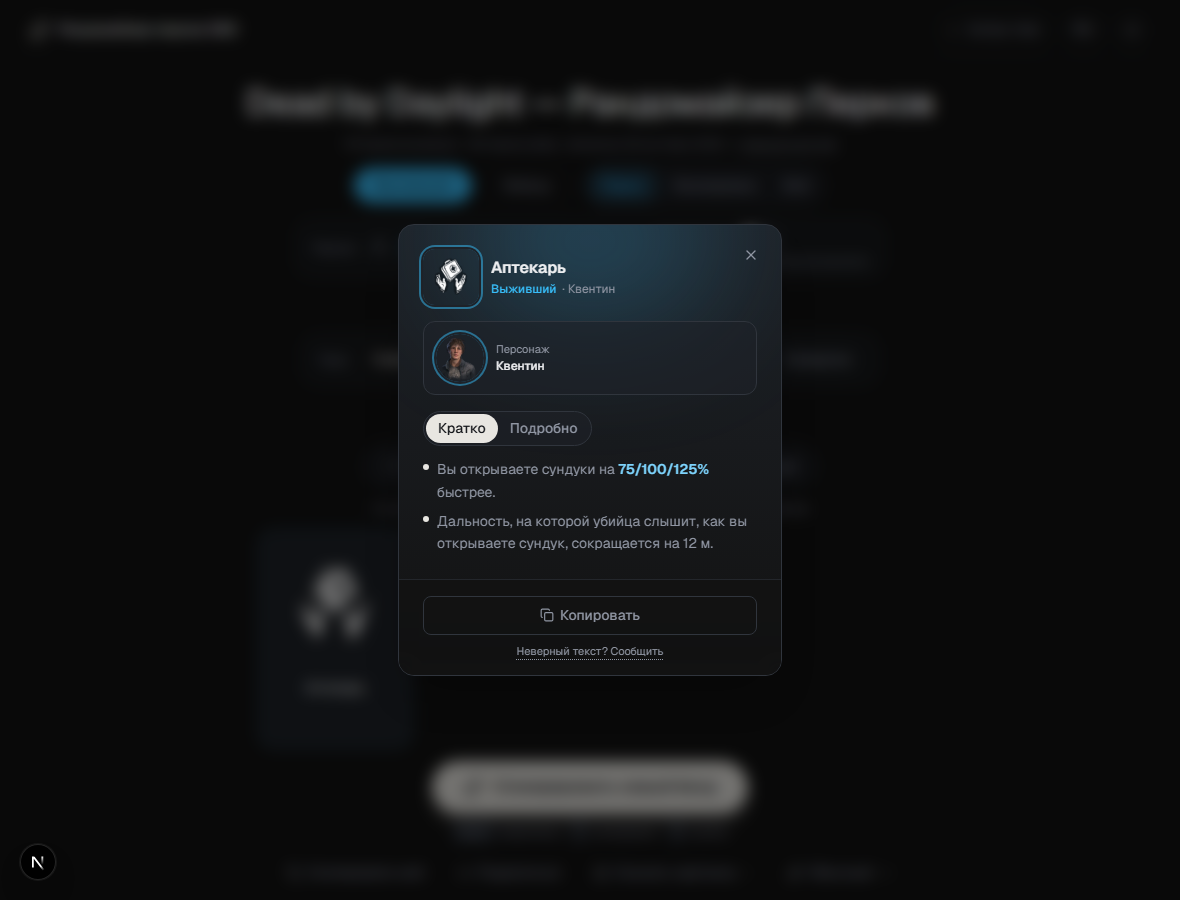
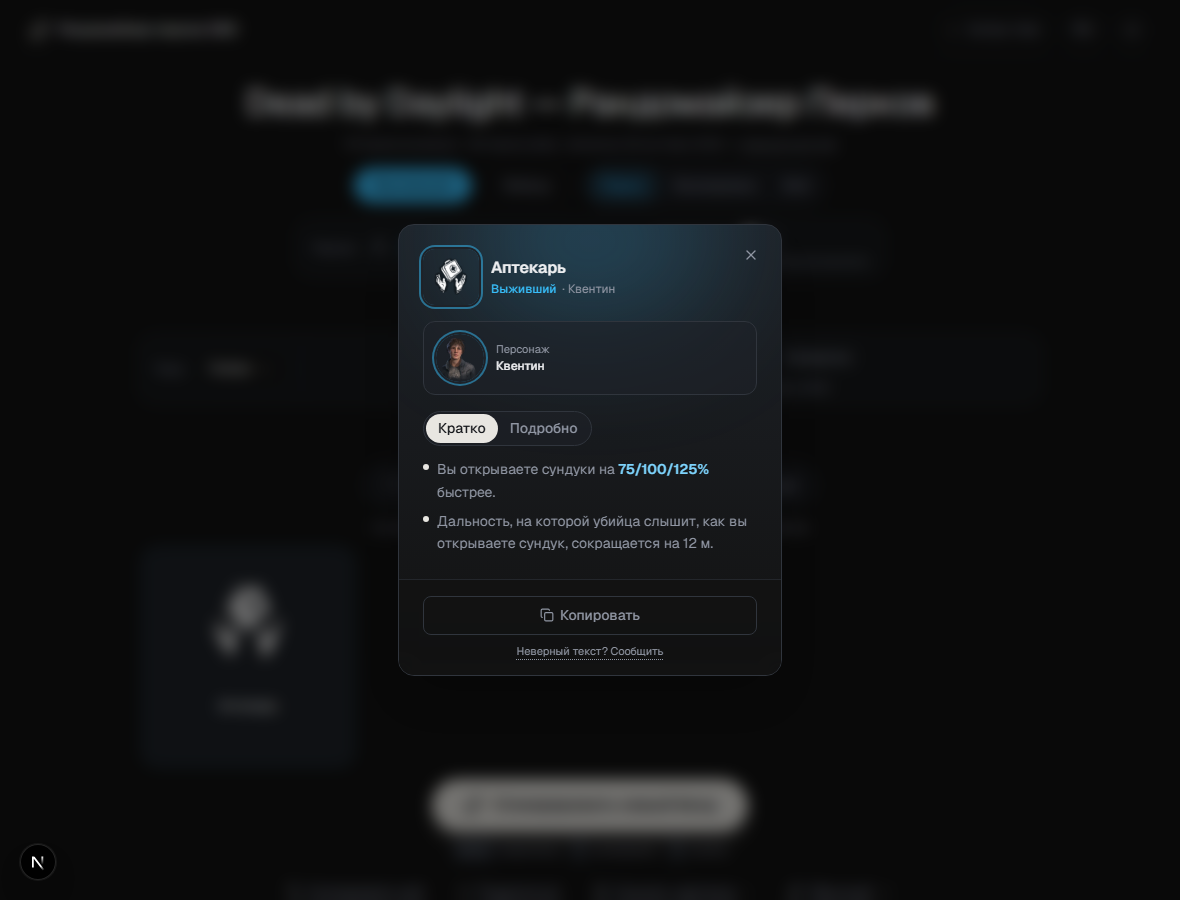
Stop the page asking for attention it has not earned
Three gaps from a UX pass. The other five items on that list were already
done — the setup disclosure is collapsed on a first visit at both 1366x768
and 390x844, Generate is the sticky accent button, the export row is demoted,
and 17 controls sit above the build. Measured, not assumed.

The trailer is collapsed until asked for. On a first visit at 1366x768 it was
a 432px box in a 1370px document: 31% of the page was a video nobody came
for, and it fetched a YouTube thumbnail before anyone clicked. The document
is now 952px and makes no third-party request on load. Still one line, still
one click, still remembered — absent now means collapsed, so only an explicit
"0" reopens it.

Coherence says what it does. The four pills carried a title attribute, which
is a mouse affordance: it never appears for someone tabbing through the
radios and does not exist on a touch screen. The selected level's sentence is
now visible under the group, inside the disclosure, so it costs nothing at
rest.

The build-theme line is a sentence. "3 из 4 — aura" was three facts and no
claim; nothing said the number counted perks.

And Reset settings, which appears only when something is non-default — a
button that cannot change anything is a control you read before ignoring, and
its absence states what default means. It resets perk count, mode, slots,
theme, coherence, character, Battle Royale, squad and seed. It deliberately
does not touch the perk pool or favourites: that is a curation built by hand
[…]

Changed region(s): [[0.3661, 0.84, 0.6407, 0.9333], [0.1831, 0.6222, 0.3356, 0.7467], [0.1831, 0.7778, 0.2136, 0.8089]]

diff --git a/components/dbd/setup-panel.tsx b/components/dbd/setup-panel.tsx
@@ -1,6 +1,6 @@
 "use client";
 
-import { Users, X } from "lucide-react";
+import { RotateCcw, Users, X } from "lucide-react";
 import { ControlGroup, ControlPanel } from "./control-panel";
 import { Dropdown } from "./dropdown";
 import { ToggleSwitch } from "./toggle-switch";
@@ -71,6 +71,8 @@ export function SetupPanel({
   onClearCharacter,
   guaranteeTeachables,
   onToggleGuaranteeTeachables,
+  filtersAtDefault,
+  onResetFilters,
 }: {
   mode: BuildMode;
   role: PerkRole;
@@ -85,6 +87,11 @@ export function SetupPanel({
   onClearCharacter: () => void;
   guaranteeTeachables: boolean;
   onToggleGuaranteeTeachables: () => void;
+  /** Hides the reset, because a button that cannot change anything is a
+   *  control you have to read before ignoring. Its absence is also the
+   *  clearest statement that nothing is currently narrowing your rolls. */
+  filtersAtDefault: boolean;
+  onResetFilters: () => void;
 }) {
   const t = useT();
   const roleColor = ROLE_COLOR[role];
@@ -141,6 +148,19 @@ export function SetupPanel({
                 </button>
               ))}
             </div>
+            {/* The same sentence the title attribute carries, said out loud for
+                the selected level.
+            
+                A `title` is a mouse affordance: it never appears for someone
+                tabbing through the radios, and on a touch screen it does not
+                exist at all. Four words on a pill cannot explain what
+                "Синергия" does to a roll, and this is the one control here
+                whose effect is invisible until you have rolled a few times.
+                Costs nothing at rest — the whole panel is behind the
+                disclosure. */}
+            <p className="w-full text-hint text-muted">
+              {t(COHERENCE_HINT[coherenceLevel])}
+            </p>
           </ControlGroup>
         )}
       </ControlPanel>
@@ -221,6 +241,30 @@ export function SetupPanel({
               en: "The build is guaranteed to include this character's own perks (unless they're excluded from the pool).",
             })}
           />
+        )}
+
+        {/* Appears only when there is something to undo.
+        
+            Sits at the end of the panel it undoes, rather than next to
+            Generate: it belongs to the settings, and a destructive-sounding
+            word beside the primary action would make people hesitate over the
+            one button they came to press. Quiet by weight like the export row
+            — muted type, border only on hover — because undoing a filter is
+            not an achievement. It does not touch the perk pool; that has its
+            own Reset inside Manage Pool, where the list is visible. */}
+        {!filtersAtDefault && (
+          <button
+            type="button"
+            onClick={onResetFilters}
+            title={t({
+              ru: "Сбрасывает количество перков, режим, слоты, тему, связность, персонажа, Battle Royale, группу и сид. Пул перков и избранное не трогает.",
+              en: "Resets perk count, mode, slots, theme, coherence, character, Battle Royale, squad and seed. Leaves your perk pool and favourites alone.",
+            })}
+            className="tap flex items-center gap-1.5 rounded-full border border-transparent px-3 py-1.5 text-control font-medium text-muted transition-colors hover:border-border hover:bg-surface-hover hover:text-foreground"
+          >
+            <RotateCcw className="size-3.5" />
+            {t({ ru: "Сбросить настройки", en: "Reset settings" })}
+          </button>
         )}
       </div>
     </>

diff --git a/components/dbd/randomizer-board.tsx b/components/dbd/randomizer-board.tsx
@@ -1026,6 +1026,40 @@ export function RandomizerBoard() {
     rerollAll();
   }
 
+  /* Everything that narrows or reshapes a roll, back to a first visit.
+  
+     Not the role, which is the question the page opens with rather than a
+     filter, and deliberately NOT the perk pool or favourites. Those are a
+     curation someone built by hand over many visits, and wiping them from a
+     one-click button in a settings panel would be the most destructive thing
+     on the site — Manage Pool has its own per-role Reset, next to the list it
+     empties, where you can see what you are about to lose. `nothingToReset`
+     below is what keeps this honest: a visitor who has changed nothing never
+     sees the button, so it also says what "default" means. */
+  const filtersAtDefault =
+    settings.isDefault &&
+    themeTag === null &&
+    coherence.level === 0 &&
+    selectedCharacter === null &&
+    !battleRoyale &&
+    !squad.active &&
+    !activeSeed;
+
+  function resetFilters() {
+    settings.reset();
+    setThemeTag(null);
+    coherence.setLevel(0);
+    setSelectedCharacter(null);
+    // Both are toggles rather than setters, so only touch them when they are
+    // actually on — calling toggle() unconditionally would turn them on.
+    if (battleRoyale) br.toggle();
+    if (squad.active) squad.toggle();
+    // `clear`, not `release`: there is no build being installed here, so the
+    // reroll it triggers is exactly what should happen.
+    if (activeSeed) seed.clear();
+    rerollAll();
+  }
+
   const roleColor = ROLE_COLOR[role];
   // Loadout mode for killer needs a character with rolled add-ons to
   // actually mean something (see getRandomLoadout's forcedCharacter) — a
@@ -1201,6 +1235,8 @@ export function RandomizerBoard() {
           onClearCharacter={() => selectCharacter(null)}
           guaranteeTeachables={guaranteeTeachables}
           onToggleGuaranteeTeachables={toggleGuaranteeTeachables}
+          filtersAtDefault={filtersAtDefault}
+          onResetFilters={resetFilters}
         />
 
 
@@ -1400,10 +1436,21 @@ export function RandomizerBoard() {
           chaos builds and 77.8% at full synergy. A line under a genuinely
           unrelated four would be the site inventing a story. */}
       {mode !== "loadout" && buildTheme && (
-        <p className="text-hint text-muted">
+        /* Says what it means now. It used to read "3 из 4 — aura", which is
+           three facts and no sentence: nothing told you the number counted
+           perks, and nothing said what "aura" was doing there at all. The
+           title carries where it comes from, for anyone who wonders why the
+           line appears on some rolls and not others. */
+        <p
+          className="text-hint text-muted"
+          title={t({
+            ru: "Считается по тегам перков. Появляется, только если большинство билда тянет в одну сторону.",
+            en: "Counted from the perks' own tags. Shown only when most of the build pulls the same way.",
+          })}
+        >
           {t({
-            ru: `${buildTheme.count} из ${buildTheme.total} — ${buildTheme.tag.ru.toLowerCase()}`,
-            en: `${buildTheme.count} of ${buildTheme.total} — ${buildTheme.tag.en.toLowerCase()}`,
+            ru: `${buildTheme.count} из ${buildTheme.total} перков — про ${buildTheme.tag.ru.toLowerCase()}`,
+            en: `${buildTheme.count} of ${buildTheme.total} perks are about ${buildTheme.tag.en.toLowerCase()}`,
           })}
         </p>
       )}

diff --git a/components/video-embed.tsx b/components/video-embed.tsx
@@ -36,13 +36,26 @@ export function VideoEmbed({ src, title }: { src: string; title: string }) {
   const t = useT();
   const [playing, setPlaying] = useState(false);
   const [qualityIndex, setQualityIndex] = useState(0);
-  const [collapsed, setCollapsed] = useState(false);
+  /* Collapsed until asked for.
+  
+     This is a utility: people arrive to roll a build, and the trailer is the
+     one thing on the page nobody came for. Measured on a first visit at
+     1366x768 it was a 432px box in a 1370px document — 31% of everything
+     below the fold was a video, and on a phone it added 201px plus a request
+     to YouTube's thumbnail CDN before anyone had asked to see it.
+  
+     Not removed, because it is the author's own trailer and it belongs here:
+     one line, one click, and the choice is remembered either way. */
+  const [collapsed, setCollapsed] = useState(true);
   const mounted = useMounted();
   const videoId = extractVideoId(src);
 
   useEffect(() => {
     function applyStoredCollapse() {
-      setCollapsed(safeGet("local", COLLAPSED_STORAGE_KEY) === "1");
+      // Absent means collapsed, so only an explicit "0" — someone who opened
+      // it — expands it on a later visit. Same shape as the loadout slots'
+      // "absent means on", inverted.
+      setCollapsed(safeGet("local", COLLAPSED_STORAGE_KEY) !== "0");
     }
     applyStoredCollapse();
   }, []);
@@ -55,11 +68,14 @@ export function VideoEmbed({ src, title }: { src: string; title: string }) {
     });
   }
 
-  // The server (and the client's very first render) always show the player
-  // expanded — applying a localStorage-derived collapsed state before mount
-  // would make that first render disagree with the server's HTML and throw
-  // a hydration mismatch, same trap as the board's other persisted state.
-  const isCollapsed = mounted && collapsed;
+  /* The server, and the client's first render, always show the collapsed bar:
+     the saved choice is applied from the mount effect, because reading
+     localStorage before hydration would disagree with the HTML the server
+     sent and throw a mismatch — the same trap as the board's other persisted
+     state. `mounted` no longer changes what the first paint looks like, since
+     collapsed is now both the default and the pre-mount state; it stays so
+     that someone who expanded the player does not see it flash shut. */
+  const isCollapsed = !mounted || collapsed;
 
   return (
     <div className="mx-auto w-full max-w-3xl">

diff --git a/lib/use-board-settings.ts b/lib/use-board-settings.ts
@@ -115,6 +115,19 @@ export interface BoardSettings {
   /** Reads all five from storage. Called once after mount — see the note at
    *  the top of the file for why this cannot be a lazy initialiser. */
   hydrate: () => void;
+
+  /** Back to a first visit's settings, and saved as such.
+   *
+   *  Writes rather than clearing the keys: a visitor who resets and comes back
+   *  should find the defaults, not whatever they had set two weeks ago. The
+   *  board composes this with the other hooks' resets — see resetFilters
+   *  there — because "reset" spans a dozen hooks and only the board sees them
+   *  all. */
+  reset: () => void;
+
+  /** Whether all five are at their defaults, so the board can hide a reset
+   *  that would do nothing. */
+  isDefault: boolean;
 }
 
 export function useBoardSettings(): BoardSettings {
@@ -168,6 +181,31 @@ export function useBoardSettings(): BoardSettings {
     [],
   );
 
+  const reset = useCallback(() => {
+    setPerkCount(DEFAULT_PERK_COUNT);
+    setMode("perks");
+    for (const slot of ["item", "addons", "offering"] as const) {
+      safeSet("local", SLOT_STORAGE_KEY[slot], "1");
+    }
+    setLoadoutSlots(DEFAULT_LOADOUT_SLOTS);
+    safeSet("local", GUARANTEE_TEACHABLES_STORAGE_KEY, "0");
+    setGuaranteeTeachables(false);
+    safeSetJSON("local", PIECE_VISIBILITY_STORAGE_KEY, DEFAULT_PIECE_VISIBILITY);
+    setPieceVisibilityState(DEFAULT_PIECE_VISIBILITY);
+  }, [setPerkCount, setMode]);
+
+  const isDefault =
+    perkCount === DEFAULT_PERK_COUNT &&
+    mode === "perks" &&
+    loadoutSlots.item &&
+    loadoutSlots.addons &&
+    loadoutSlots.offering &&
+    !guaranteeTeachables &&
+    pieceVisibility.perks &&
+    pieceVisibility.item &&
+    pieceVisibility.addon &&
+    pieceVisibility.offering;
+
   const hydrate = useCallback(() => {
     setPerkCountState(loadPerkCount());
     setModeState(loadMode());
@@ -194,5 +232,7 @@ export function useBoardSettings(): BoardSettings {
     showPerkCount: setPerkCountState,
     showMode: setModeState,
     hydrate,
+    reset,
+    isDefault,
   };
 }

diff --git a/lib/use-board-settings.hook.test.ts b/lib/use-board-settings.hook.test.ts
@@ -167,3 +167,52 @@ test("a zero-perk challenge is a real saved choice, not a falsy mistake", () => 
   act(() => s.s.setPerkCount(0));
   assert.equal(reopened().s.perkCount, 0);
 });
+
+test("reset puts all five back, and remembers that it did", () => {
+  const s = setup();
+  act(() => {
+    s.s.setPerkCount(2);
+    s.s.setMode("all");
+    s.s.toggleLoadoutSlot("offering");
+    s.s.toggleGuaranteeTeachables();
+    s.s.setPieceVisibility("item", false);
+  });
+  assert.equal(s.s.isDefault, false);
+
+  act(() => s.s.reset());
+  assert.equal(s.s.perkCount, 4);
+  assert.equal(s.s.mode, "perks");
+  assert.deepEqual(s.s.loadoutSlots, { item: true, addons: true, offering: true });
+  assert.equal(s.s.guaranteeTeachables, false);
+  assert.equal(s.s.pieceVisibility.item, true);
+  assert.equal(s.s.isDefault, true);
+
+  // Written, not cleared: coming back must find the defaults rather than the
+  // settings from before the reset.
+  assert.deepEqual(reopened().s.loadoutSlots, {
+    item: true,
+    addons: true,
+    offering: true,
+  });
+  assert.equal(reopened().s.perkCount, 4);
+  assert.equal(reopened().s.mode, "perks");
+});
+
+test("a fresh board is already at its defaults, so there is nothing to reset", () => {
+  assert.equal(setup().s.isDefault, true);
+});
+
+test("isDefault notices each setting on its own", () => {
+  for (const change of [
+    (s: BoardSettings) => s.setPerkCount(3),
+    (s: BoardSettings) => s.setMode("loadout"),
+    (s: BoardSettings) => s.toggleLoadoutSlot("item"),
+    (s: BoardSettings) => s.toggleGuaranteeTeachables(),
+    (s: BoardSettings) => s.setPieceVisibility("offering", false),
+  ]) {
+    localStorage.clear();
+    const s = setup();
+    act(() => change(s.s));
+    assert.equal(s.s.isDefault, false, `${change} should leave isDefault false`);
+  }
+});
